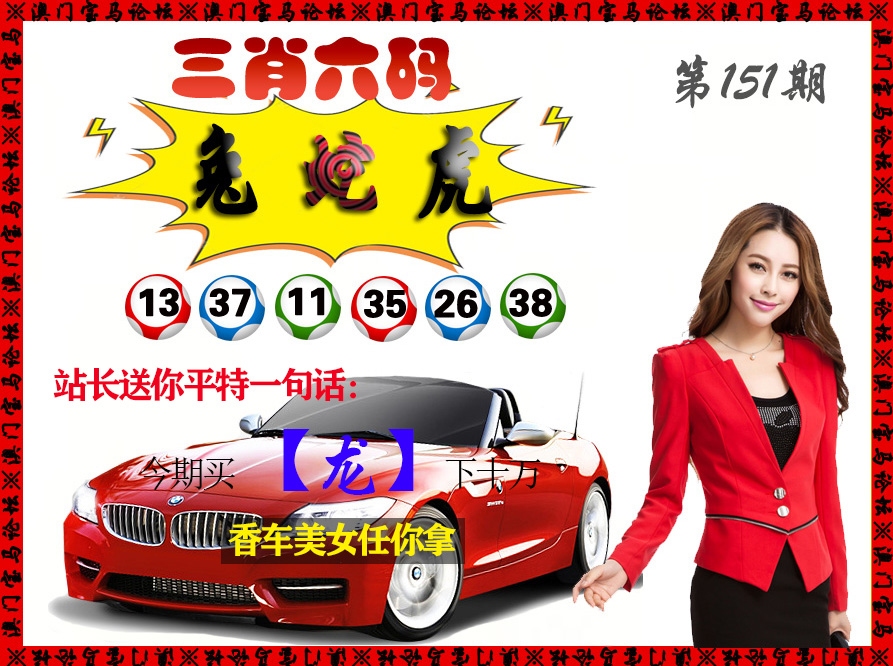
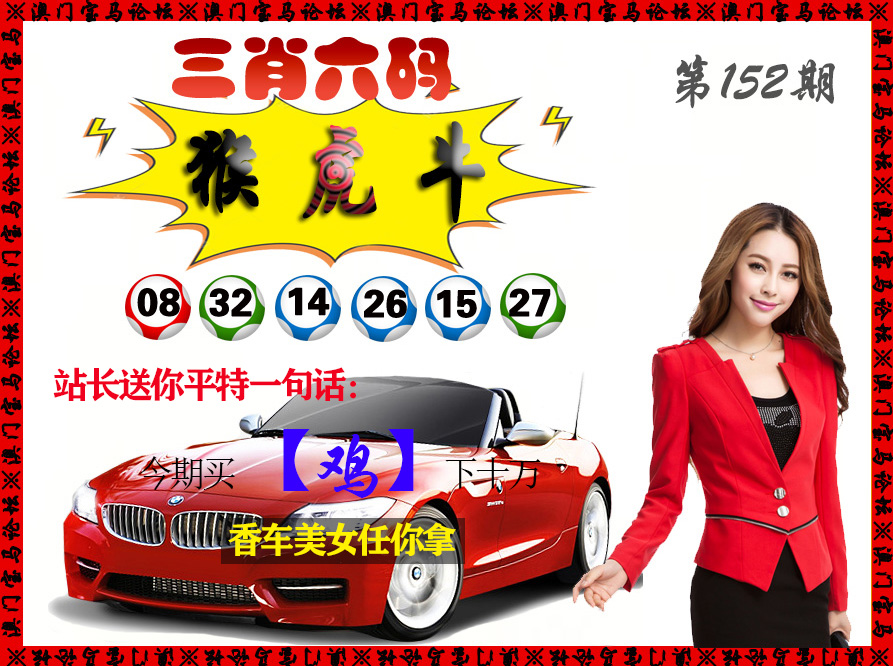
Update:  2023.06.01 02:27:06

diff --git a/Script/Src/xjw/管家婆解析.js b/Script/Src/xjw/管家婆解析.js
@@ -25,8 +25,8 @@ document.writeln("	");
 document.writeln("		<p align=\'left\'>");
 document.writeln("	");
 document.writeln("		<span><font size=\'4\'>152期:<font color=\'#008000\'>【精解管家婆一句话】</font><font color=\'#FF0000\'>开？00</font><font color=\'#008000\'><br>");
-document.writeln("		</font><font color=\'#6600CC\'>【更新中】【更新中】<br></font></font>");
-document.writeln("		<font color=\'#0000FF\' size=\'4\'>解：更新中。综合取肖</font><font color=\'#FF0000\' size=\'4\'>更新中</font><font color=\'#0000FF\' size=\'4\'>   本期平特更新中。<br>本期取码：更新中</td></tr>");
+document.writeln("		</font><font color=\'#6600CC\'>【四大才子中状元】【五马分尸】<br></font></font>");
+document.writeln("		<font color=\'#0000FF\' size=\'4\'>解：四大才子中状元解料：四大才子中状元，才子，龙虎猪；状元，马蛇。解肖：龙虎猪马蛇猴。综合取肖</font><font color=\'#FF0000\' size=\'4\'>龙虎猪马蛇猴</font><font color=\'#0000FF\' size=\'4\'>   本期平特马。<br>本期取码：12.24.02.38.05.27.22.34.11.47.44.32</td></tr>");
 document.writeln("		");
 
 document.writeln("	<tr>");

diff --git a/Script/Src/xjw/传真九肖.js b/Script/Src/xjw/传真九肖.js
@@ -25,9 +25,9 @@ document.writeln("	");
 document.writeln("		<p align=\'left\'>");
 document.writeln("	");
 document.writeln("		<span><font size=\'4\'>152期:<font color=\'#008000\'>【澳门传真特围生肖】</font><font color=\'#FF0000\'>开？00</font><font color=\'#008000\'><br>");
-document.writeln("		</font><font color=\'#0000FF\'>更新中。<br>");
-document.writeln("		【更新中】</font><br><b><font color=\'#FF0000\'>");
-document.writeln("				特围生肖:更新中<br>主特六肖：更新中</font></b></font></td></tr>");
+document.writeln("		</font><font color=\'#0000FF\'>今期生肖在一头，有钱不要去买猪。龙头蛇尾中生肖，绿红必定有花招。三四定开在今期，不三不四不用记。夫人不用粗大意，金命必定是圣旨。<br>");
+document.writeln("		【捉贼见赃】</font><br><b><font color=\'#FF0000\'>");
+document.writeln("				特围生肖:蛇马龙羊猴狗鼠猪<br>主特六肖：蛇马龙羊猴狗</font></b></font></td></tr>");
 document.writeln("");
 
   

diff --git a/Script/Src/xjw/平特一肖.js b/Script/Src/xjw/平特一肖.js
@@ -38,13 +38,7 @@ document.writeln("		<font color=\'#FF00FF\'>【马槽里伸个驴头—多了一
 document.writeln("		</tr>");
  
 
-document.writeln("                         <tr>");
-document.writeln("		<td class=\'center f11 black l150\' align=\'center\'>");
-document.writeln("	");
-document.writeln("		<span><font size=\'4\'>148期:【歇后语解平特】开<span style=\'background-color: #FFFF00\'>牛15</span><br>");
-document.writeln("		<font color=\'#FF00FF\'>【牛吃卷心菜—各人心中爱】</td>");
-document.writeln("	</tr>");
-
+d 
  
  
 
